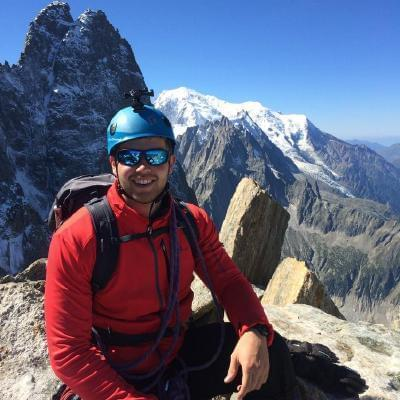
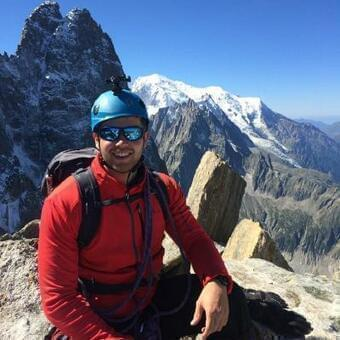
seo & general optimisations

diff --git a/src/components/Footer.js b/src/components/Footer.js
@@ -14,12 +14,12 @@ export default function Footer() {
             <ul>
               <li className="mr-2 mb-2 mt-2">
                 <Link href="/about">
-                  <a>About</a>
+                  <a className="p-1">About</a>
                 </Link>
               </li>
               <li className="mr-2 mb-2 mt-2">
                 <Link href="/support">
-                  <a>Support</a>
+                  <a className="p-1">Support</a>
                 </Link>
               </li>
             </ul>
@@ -28,20 +28,20 @@ export default function Footer() {
             <ul>
               <li className="mr-2 mb-2 mt-2">
                 <Link href="/blog">
-                  <a>Blog</a>
+                  <a className="p-1">Blog</a>
                 </Link>
               </li>
               <li className="mr-2 mb-2 mt-2">
                 <Link href="/podcast">
-                  <a>Podcast</a>
+                  <a className="p-1">Podcast</a>
                 </Link>
               </li>
             </ul>
           </div>
           <div>
             <ul>
-              <li className="mr-2 mb-2 mt-2">james@thefrontendcoach.com</li>
-              <li className="mr-2 mb-2 mt-2">
+              <li className="mr-2 p-1 mt-1">james@thefrontendcoach.com</li>
+              <li className="mr-2 mb-2 p-1">
                 <Link href="https://www.iubenda.com/privacy-policy/79995354">
                   <a className="iubenda-white iubenda-embed" title="Privacy Policy">Privacy Policy</a>
                 </Link>
@@ -49,9 +49,9 @@ export default function Footer() {
             </ul>
           </div>
         </div>
-        <div className="pt-3 wrapper flex" style={{borderTop: '1px solid rgba(250, 250, 250, 0.45)'}}>
-          <span className="mr-4l mt-2">The Front End Coach 2020</span>
-          <span className="mt-2 ml-3 flex">
+        <div className="pt-3 wrapper flex flex-wrap" style={{borderTop: '1px solid rgba(250, 250, 250, 0.45)'}}>
+          <span className="mr-4 mt-2">The Front End Coach 2020</span>
+          <span className="mt-2 flex">
             Built by James Robinson
             <a className="flex items-center" href="https://github.com/jrobind"><img className="ml-2" alt="GitHub icon" src="/images/github-icon.png" style={{ width: '18px', marginTop: '-4px'}}/></a>
           </span>

diff --git a/src/pages/support/index.js b/src/pages/support/index.js
@@ -1,4 +1,6 @@
 import { NextSeo } from 'next-seo';
+import { rootURL } from '../../lib/constants';
+
 
 export default function Support() {
   return (
@@ -6,6 +8,7 @@ export default function Support() {
       <NextSeo
         title= "The Front End Coach | Support options"
         description="Don't learn alone. Find the support and help you need on your journey to becoming a Front End developer."
+        canonical={`${rootURL}support`}
       />
       <section className="wrapper px-3 relative" style={{minHeight: '300px'}}>
         <div className="pb-7 flex justify-center">
@@ -47,7 +50,9 @@ export default function Support() {
           <div className="text-base md:text-lg flex-col flex mt-4md:block md:mt-5" style={{maxWidth: '700px'}}>
             <h2 className="text-3xl">Direct mentorship</h2>
             <h4 className="text-xl mb-4 font-bold underline">Limited spots available</h4>
-            <p className="my-3">For a limited number of students, I will be providing more focused mentorship support. This will involve weekly one-to-one video calls. For many students, the focus of these calls will be to help structure their learning pathway but for others, we may decide to point our focus elsewhere. This may include a range of different topics. For instance, specific code related issues, portfolio/CV review, etc.</p>
+            <p className="my-3">For a limited number of students, I will be providing a more personalised support. This will be most suited to students who are struggling to progress with their learning or who are looking for more guidance on their CV, job applications, and portfolios.</p>
+            <p className="mb-3">
+              The format of this support will involve weekly one-to-one scheduled video calls. Direct mentorship can be incredibly rewarding for both parties. These sessions will help to provide you with the right level of accountability and support to help you reach your development goals.</p>
             <p className="mb-3">To apply, please send an email to <strong className="font-bold">james@thefrontendcoach.com</strong> outlining a few things:</p>
             <ul>
               <li className="pb-2"><span className="bullet mr-1"></span> A brief introduction about yourself.</li>

diff --git a/src/components/Newsletter.js b/src/components/Newsletter.js
@@ -31,7 +31,7 @@ export default function Newsletter() {
                 <div className="ml-form-embedWrapper embedForm">
                   <div className="ml-form-embedBody ml-form-embedBodyHorizontal row-form">
                     <div className="ml-form-embedContent">
-                      <h4>SUBSCRIBE TO THE NEWSLETTER</h4>
+                      <h3>SUBSCRIBE TO THE NEWSLETTER</h3>
                       <p id="newsletter-description">Stay up-to-date with new articles, podcast episodes and latest news.</p>
                     </div>
                     <form className="ml-block-form" action="https://static.mailerlite.com/webforms/submit/r3a1b8" data-code="r3a1b8" method="post" target="_blank">
@@ -57,7 +57,7 @@ export default function Newsletter() {
                         </div>
                       </div>
                       <div className="ml-form-checkboxRow ml-validate-required">
-                        <label className="checkbox"> <input type="checkbox"/> <span className="label-description"> <p>I am happy for The Front End Coach to contact me by email.</p> </span> </label>
+                        <label className="checkbox"> <input type="checkbox"/> <span className="label-description"> <span>I am happy for The Front End Coach to contact me by email.</span> </span> </label>
                       </div>
                       <input type="hidden" name="ml-submit" value="1"/>
                       <div className="ml-mobileButton-horizontal">

diff --git a/src/pages/index.js b/src/pages/index.js
@@ -3,12 +3,14 @@ import fs from "fs";
 import { NextSeo } from 'next-seo';
 import BlogPost from "../components/BlogPost";
 import { getAllBlogPosts } from '../lib/api';
+import { rootURL } from '../lib/constants';
 
 
 const Home = ({ slugs, posts }) => (
   <div className="landing">
     <NextSeo
       description="The Front End Coach is a support system to help budding developers on their quest to become Front End developers"
+      canonical={rootURL}
     />
     <section className="hero bg-main px-3 py-4 md:px-3">
       <div className="wrapper u-px-3 flex md:justify-between justify-center items-center">
@@ -30,7 +32,11 @@ const Home = ({ slugs, posts }) => (
 
     <section className="about px-3 py-7 md:py-8">
       <div className="wrapper flex flex-col md:flex-row md:justify-between items-center">
-        <img className="max-w-250 md:max-w-340 img-shadow w-full mb-3 md:mb-0 img-shadow" alt="Man inspecting code block" src="./images/james-robinson.jpg" width='450' height='350'/>
+        <img 
+          className="max-w-250 md:max-w-340 w-full img-shadow mb-3 md:mb-0 img-shadow" 
+          src="/images/james-robinson.jpg"
+          alt="Photo of James Robinson on a mountain"
+        />
         <div className="md:max-w-600 md:ml-4">
           <h2 className="mb-3 text-3xl">About James Robinson</h2>
           <p className="mb-5 text-base md:text-lg">

diff --git a/src/pages/blog/index.js b/src/pages/blog/index.js
@@ -1,6 +1,7 @@
 import { NextSeo } from 'next-seo';
 import BlogPost from '../../components/BlogPost';
-import { getAllBlogPosts} from '../../lib/api';
+import { getAllBlogPosts } from '../../lib/api';
+import { rootURL } from '../../lib/constants';
 
 
 const BlogHome = ({ posts }) => (
@@ -12,8 +13,9 @@ const BlogHome = ({ posts }) => (
     }}
   >
     <NextSeo
-      title= "The Front End Coach | Latest articles"
-      description="Keep up to date with Front End development tips, tricks, advice and learning resources."
+      title="The Front End Coach | Latest articles"
+      description="Keep up-to-date with Front End Development tips, tricks, advice, and learning resources for those looking to break into the industry."
+      canonical={`${rootURL}blog`}
     />
     <section 
       className="py-6 pb-8 md:px-3 bg-blog-home-blob-2 bg-no-repeat" style={{

diff --git a/src/scripts/generate-sitemap.js b/src/scripts/generate-sitemap.js
@@ -1,0 +1,33 @@
+const fs = require('fs');
+
+const globby = require('globby');
+
+(async () => {
+  const pages = await globby([
+    'pages/**/*{.js,.md}',
+    '!pages/_*.js',
+    '!pages/api'
+  ]);
+  const sitemap = `
+    <?xml version="1.0" encoding="UTF-8"?>
+    <urlset xmlns="http://www.sitemaps.org/schemas/sitemap/0.9">
+      ${pages
+        .map((page) => {
+          const path = page
+            .replace('pages', '')
+            .replace('.js', '')
+            .replace('.md', '');
+          const route = path === '/index' ? '' : path;
+
+          return `
+            <url>
+                <loc>${`https://thefrontendcoach.com${route}`}</loc>
+            </url>
+          `;
+        })
+        .join('')}
+    </urlset>
+  `;
+
+  fs.writeFileSync('public/sitemap.xml', formatted);
+})();

diff --git a/src/pages/blog/[slug].js b/src/pages/blog/[slug].js
@@ -19,12 +19,13 @@ const CodeBlock = ({ language, value }) => {
   );
 };
 
-const Post = ({ frontmatter, markdownBody }) => {
+const Post = ({ frontmatter, markdownBody, slug }) => {
   return (
     <div className="blog-post wrapper">
       <NextSeo
         title={frontmatter.title}
         description={frontmatter.description}
+        canonical={`${rootURL}${slug}`}
       />
       <div className="max-w-750 m-auto my-5 md:my-6 px-3">
         <Link href="/blog">
@@ -65,7 +66,8 @@ export const getStaticProps = async ({ params: { slug } }) => {
   return {
     props: {
       frontmatter: data,
-      markdownBody: parsedData.content
+      markdownBody: parsedData.content,
+      slug,
     }
   };
 };

diff --git a/src/styles/common/overrides.css b/src/styles/common/overrides.css
@@ -15,7 +15,7 @@
   font-size: 16px;
 }
 
-#newsletter .ml-form-embedContainer #newsletter-container h4 {
+#newsletter .ml-form-embedContainer #newsletter-container h3 {
   letter-spacing: 1.5px !important;
   font-size: 17px !important;
   font-weight: 600 !important;
@@ -49,6 +49,6 @@
 }
 
 #newsletter .ml-form-embedContainer #newsletter-container .ml-form-embedPermissionsContent.privacy-policy p:last-child,
-#newsletter .ml-form-embedContainer #newsletter-container .ml-form-embedWrapper .ml-form-embedBody .ml-form-checkboxRow label p {
+#newsletter .ml-form-embedContainer #newsletter-container .ml-form-embedWrapper .ml-form-embedBody .ml-form-checkboxRow label span {
   font-size: 16px !important;
 }

diff --git a/src/pages/about/index.js b/src/pages/about/index.js
@@ -1,5 +1,6 @@
 import { NextSeo } from 'next-seo';
 import Link from "next/link";
+import { rootURL } from '../../lib/constants';
 
 
 export default function About() {
@@ -8,6 +9,7 @@ export default function About() {
       <NextSeo
         title= "About the Front End Coach by James Robinson"
         description="Hi, I am James Robinson, a self-taught developer and the creator of The Front End Coach. The Front End Coach is a site to help beginners who are looking to become Front End developers."
+        canonical={`${rootURL}about`}
       />
       <section className="wrapper px-3">
         <div className="mb-8">

diff --git a/src/pages/podcast/index.js b/src/pages/podcast/index.js
@@ -1,4 +1,6 @@
 import { NextSeo } from 'next-seo';
+import { rootURL } from '../../lib/constants';
+
 
 export default function Podcast() {
   return (
@@ -6,6 +8,7 @@ export default function Podcast() {
       <NextSeo
         title= "The Front End Coach Podcast"
         description="Listen to interviews, advice on learning how to build your Front End skillset, getting your first job in the tech industry and more!"
+        canonical={`${rootURL}podcast`}
       />
       <section className="wrapper px-3">
         <div className="my-5 md:my-7">

diff --git a/src/pages/_app.js b/src/pages/_app.js
@@ -13,7 +13,7 @@ export default class MyApp extends App {
     return (
       <Layout>
         <DefaultSeo 
-          title= "The Front End Coach | Get help starting your career as a Front End Developer"
+          title= "The Front End Coach | Start your career as a Front End Developer"
           openGraph = {{
             type: 'website',
             url: 'https://thefrontendcoach.com',

diff --git a/src/next.config.js b/src/next.config.js
@@ -1,9 +1,14 @@
 module.exports = {
-  webpack: function(config) {
+  webpack: function(config, { isServer }) {
     config.module.rules.push({
       test: /\.md$/,
       use: 'raw-loader',
     })
+
+    if (isServer) {
+      require('./scripts/generate-sitemap');
+    }
+
     return config;
   }
 }
